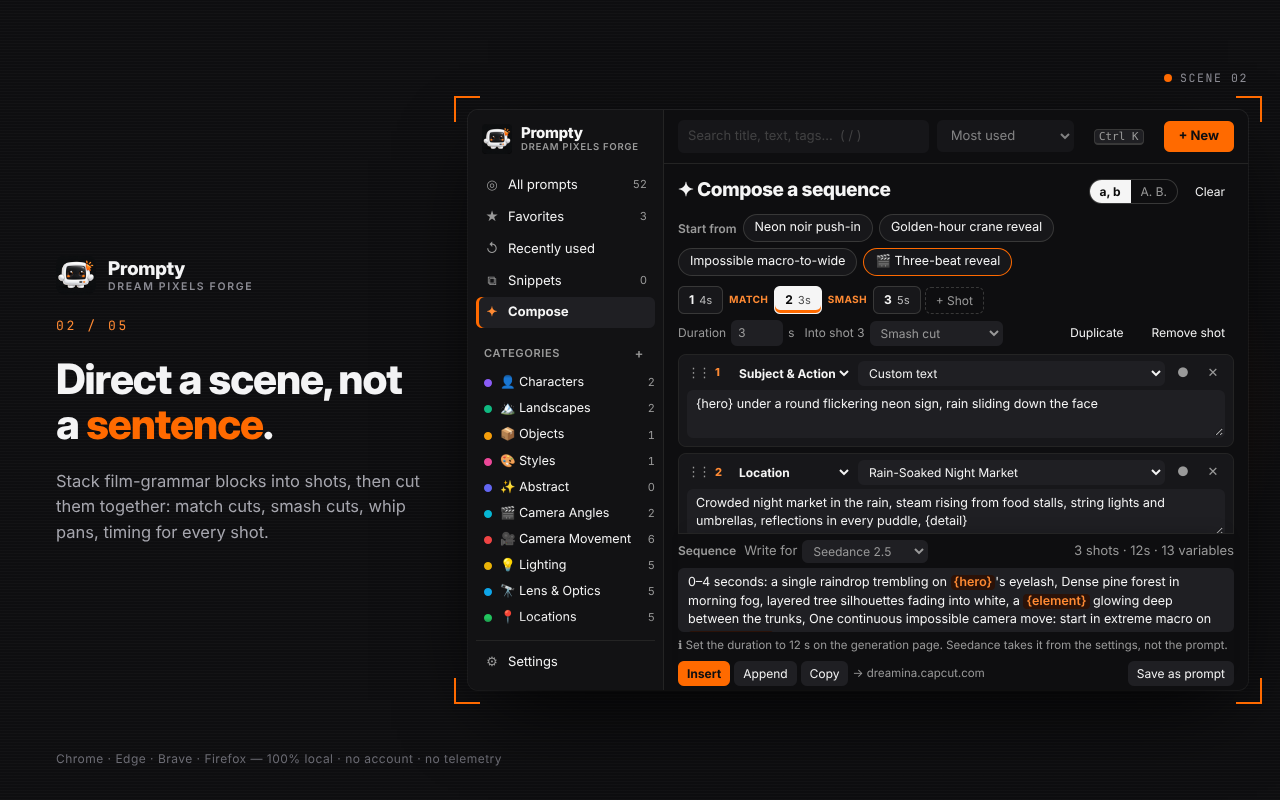
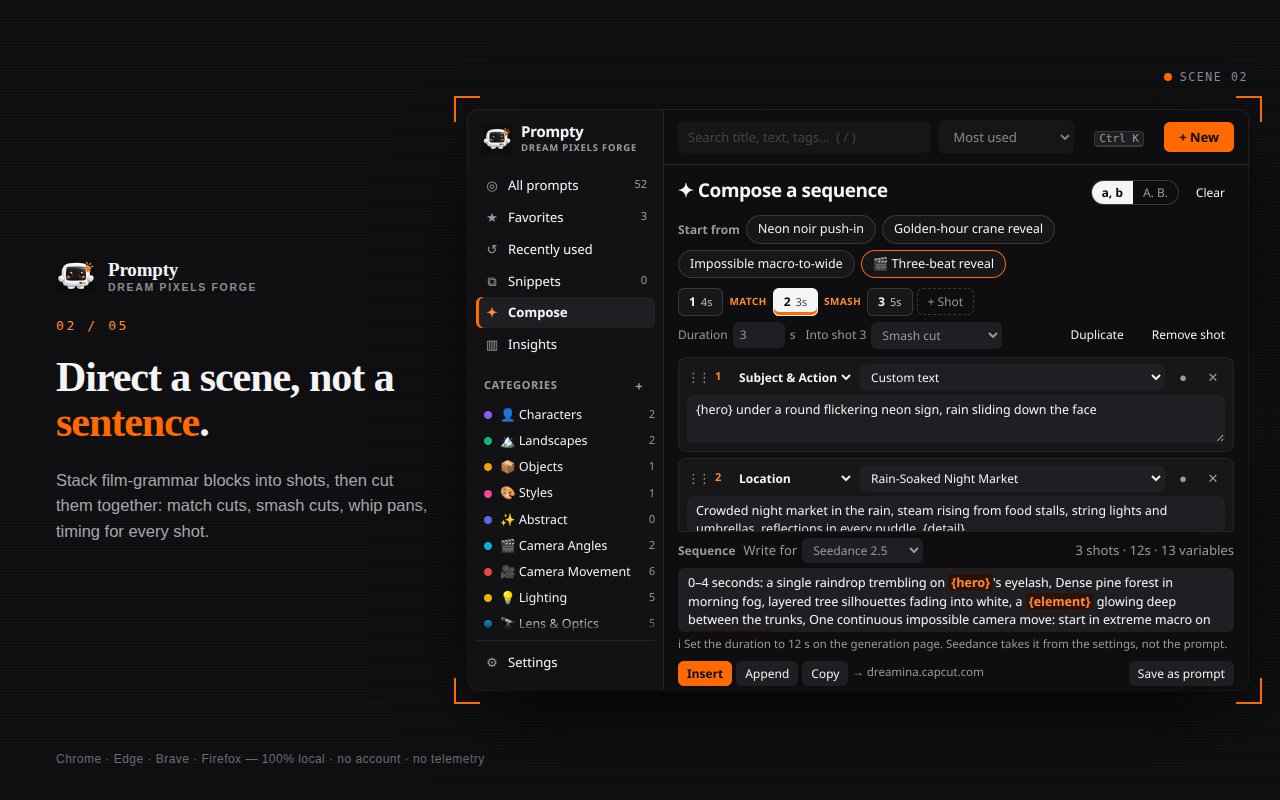
release: v0.4.0 — Sovereign
Version 0.4.0 ships everything under the old [Unreleased] heading: Vault Mode
(G10), Insights (G7), share packs (G13), the migration suite (G11), French
(G8b/G8c), the accessibility pass (G8a) and 5k-prompt performance (G12).

- package.json + src/manifest.base.json: 0.3.0 -> 0.4.0
- CHANGELOG: [Unreleased] dated and named; Composer focus fix listed
- store/listing.md: v0.4.0 title, 0.4.0 package names, description covers
  Insights, import, packs, Vault and the performance numbers
- store/screenshots: regenerated from the 0.4.0 build
- README: roadmap paragraph now describes v0.4 as shipped

diff --git a/store/listing.md b/store/listing.md
@@ -1,4 +1,4 @@
-# Store listing — v0.3.0
+# Store listing — v0.4.0
 
 Copy for the Chrome Web Store and Firefox Add-ons (AMO). Images in this folder are generated by
 `node scripts/store-screenshots.mjs` (after `pnpm build`).
@@ -7,7 +7,7 @@ Copy for the Chrome Web Store and Firefox Add-ons (AMO). Images in this folder a
 | ---------------------------------- | -------------------------------------------------- |
 | `screenshot-01.png` … `05`         | Screenshots, 1280×800, in this order (CWS and AMO) |
 | `promo-tile-440x280.png`           | Chrome Web Store small promo tile                  |
-| `../dist/prompty-0.3.0-*.zip/.xpi` | Upload packages (`pnpm package`)                   |
+| `../dist/prompty-0.4.0-*.zip/.xpi` | Upload packages (`pnpm package`)                   |
 
 ## Name
 
@@ -15,8 +15,7 @@ Prompty — Global Prompt Library
 
 ## Summary (CWS ≤ 132 characters, AMO ≤ 250)
 
-Save, organize and insert prompts on any site, then compose AI-video shots and multi-shot scenes.
-100% local, no account.
+Save, organize and insert prompts anywhere, compose AI-video shots, and keep it all local or encrypted.
 
 ## Category
 
@@ -55,22 +54,38 @@ way a director briefs a crew.
   cut events; Muse Video gets `STOP. HARD CUT.` shots. Prompty suggests the dialect for the site
   you're on and warns when a sequence fights the model.
 
+**Know what works**
+
+- **Insights**: most-used prompts, uses by category, prompts added per month, never-used and
+  dormant (90+ days) prompts, and recent fill-ins. Computed from what Prompty already stores;
+  nothing new is tracked. Tick **Select these** to hand a dormant list to the bulk bar.
+
 **Stay organized**
 
 - Categories with drag-to-reorder, tags, favorites, search and sort.
 - Bulk select to move, tag, star, copy, export or delete, with a 10-second undo.
 - Version history: compare any earlier take word by word and restore it.
-- Import and export as JSON.
+- **Import from another tool**: read a Prompty or Higgsfield export, CSV, text/Markdown or JSON,
+  de-duplicate automatically and see a merge report.
+- **Share packs**: select prompts and save a `.prompty` file with their categories and Composer
+  blocks; drop one on the popup to preview and import it.
+- Large libraries stay fast: 5,000 prompts open in about 0.3 s.
 
 **Private by design**
 
 Everything stays in your browser's local extension storage. Prompty makes no network requests, has
 no account and collects no analytics.
 
+- **Vault Mode** (optional): encrypt prompts, snippets, fill-in memory and Composer drafts with a
+  passphrase (AES-GCM-256, PBKDF2-SHA-256 at 250k iterations). The key is held in memory only and
+  the vault auto-locks. There is no passphrase recovery.
+
 ## Privacy practices (CWS) / data collection (AMO)
 
 - Data collected: **none**. Prompts, settings and history stay in `storage.local` on the device.
 - No remote code; no network requests.
+- Vault Mode is optional and on-device only: the passphrase, key and ciphertext never leave the
+  browser.
 - Single purpose: save, organize, compose and insert text prompts.
 
 ## Permission justifications

diff --git a/CHANGELOG.md b/CHANGELOG.md
@@ -3,7 +3,11 @@
 All notable changes to Prompty. Versions follow [Semantic Versioning](https://semver.org/);
 before 1.0, minor versions may change stored data shapes, and every such change migrates silently.
 
-## [Unreleased]
+## [0.4.0] — 2026-11-13 · "Sovereign"
+
+Prompty becomes a library you can trust with years of work: it can encrypt itself on demand, shows
+what you actually use, imports what you already have, and hands a selection to someone else as one
+file — and a 5,000-prompt library opens in about a third of a second instead of seven.
 
 ### Performance
 
@@ -63,6 +67,13 @@ before 1.0, minor versions may change stored data shapes, and every such change 
   - Duplicates are found by normalized text, so re-importing a file adds nothing.
   - Categories are matched by name.
   - The import can be undone for 10 s.
+
+### Fixed
+
+- Re-rendering the Composer from a control's `change` event (duration, cut, format, slots) no
+  longer throws `NotFoundError` in Chrome when it detaches the focused control; the control is
+  blurred before the view is replaced and focus returns through `data-focus-key`. Editing a
+  duration or picking a cut no longer aborts the render.
 
 ## [0.3.0] — 2026-11-10 · "Director's cut"
 

diff --git a/README.md b/README.md
@@ -102,12 +102,11 @@ store/                 store screenshots, promo tile, listing copy
 
 ## Roadmap
 
-v0.3 shipped the Ctrl+K palette, version history, bulk operations, Variables 2.0
-and the Composer (shots, sequences, model dialects). Still open on the roadmap:
-usage insights (G7), theming/a11y/i18n (G8), Vault Mode (G10), the Migration Suite
-(G11), large-library performance (G12) and `.prompty` share packs (G13) — all since
-shipped, see [`CHANGELOG.md`](CHANGELOG.md). See [`dev-notes/ROADMAP.md`](dev-notes/ROADMAP.md) and the shipped subgoal specs
-in [`dev-notes/subgoals/`](dev-notes/subgoals/README.md).
+v0.4 adds Vault Mode, Insights, share packs, the import suite, French, the
+accessibility pass and 5k-prompt performance. The remaining tier is the v0.4+
+"moonshots" — library hygiene, a burst generator, prompt hotkeys, snapshots and
+an on-device rewrite assist — listed in [`dev-notes/ROADMAP.md`](dev-notes/ROADMAP.md).
+Shipped subgoal specs live in [`dev-notes/subgoals/`](dev-notes/subgoals/README.md).
 
 ## License & attribution
 
